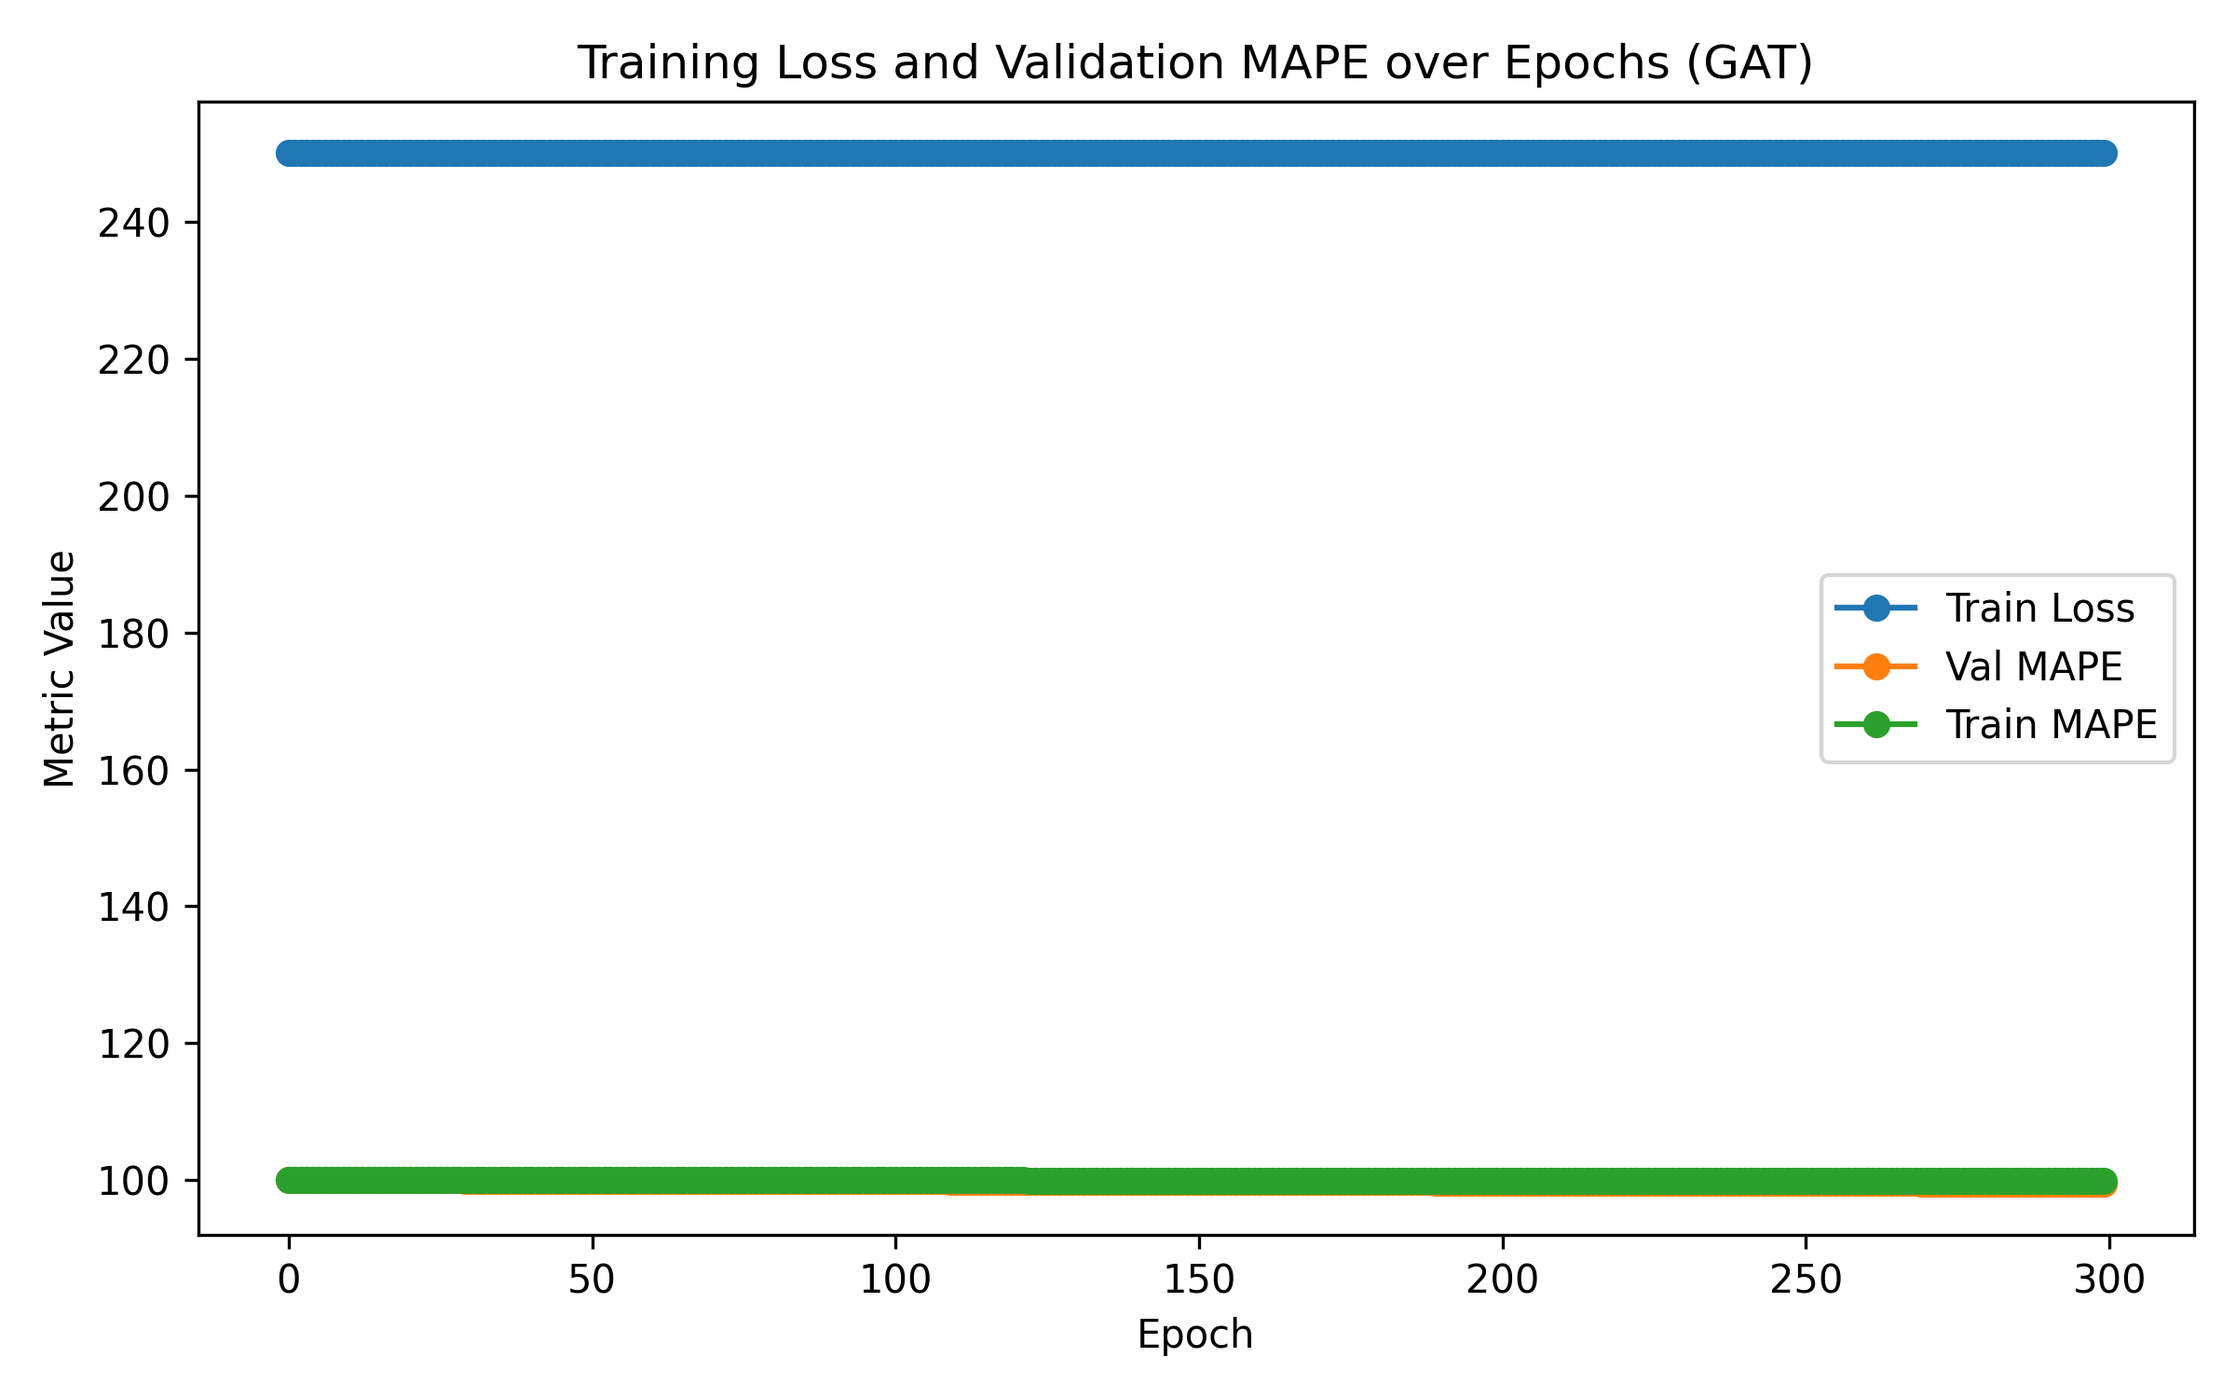
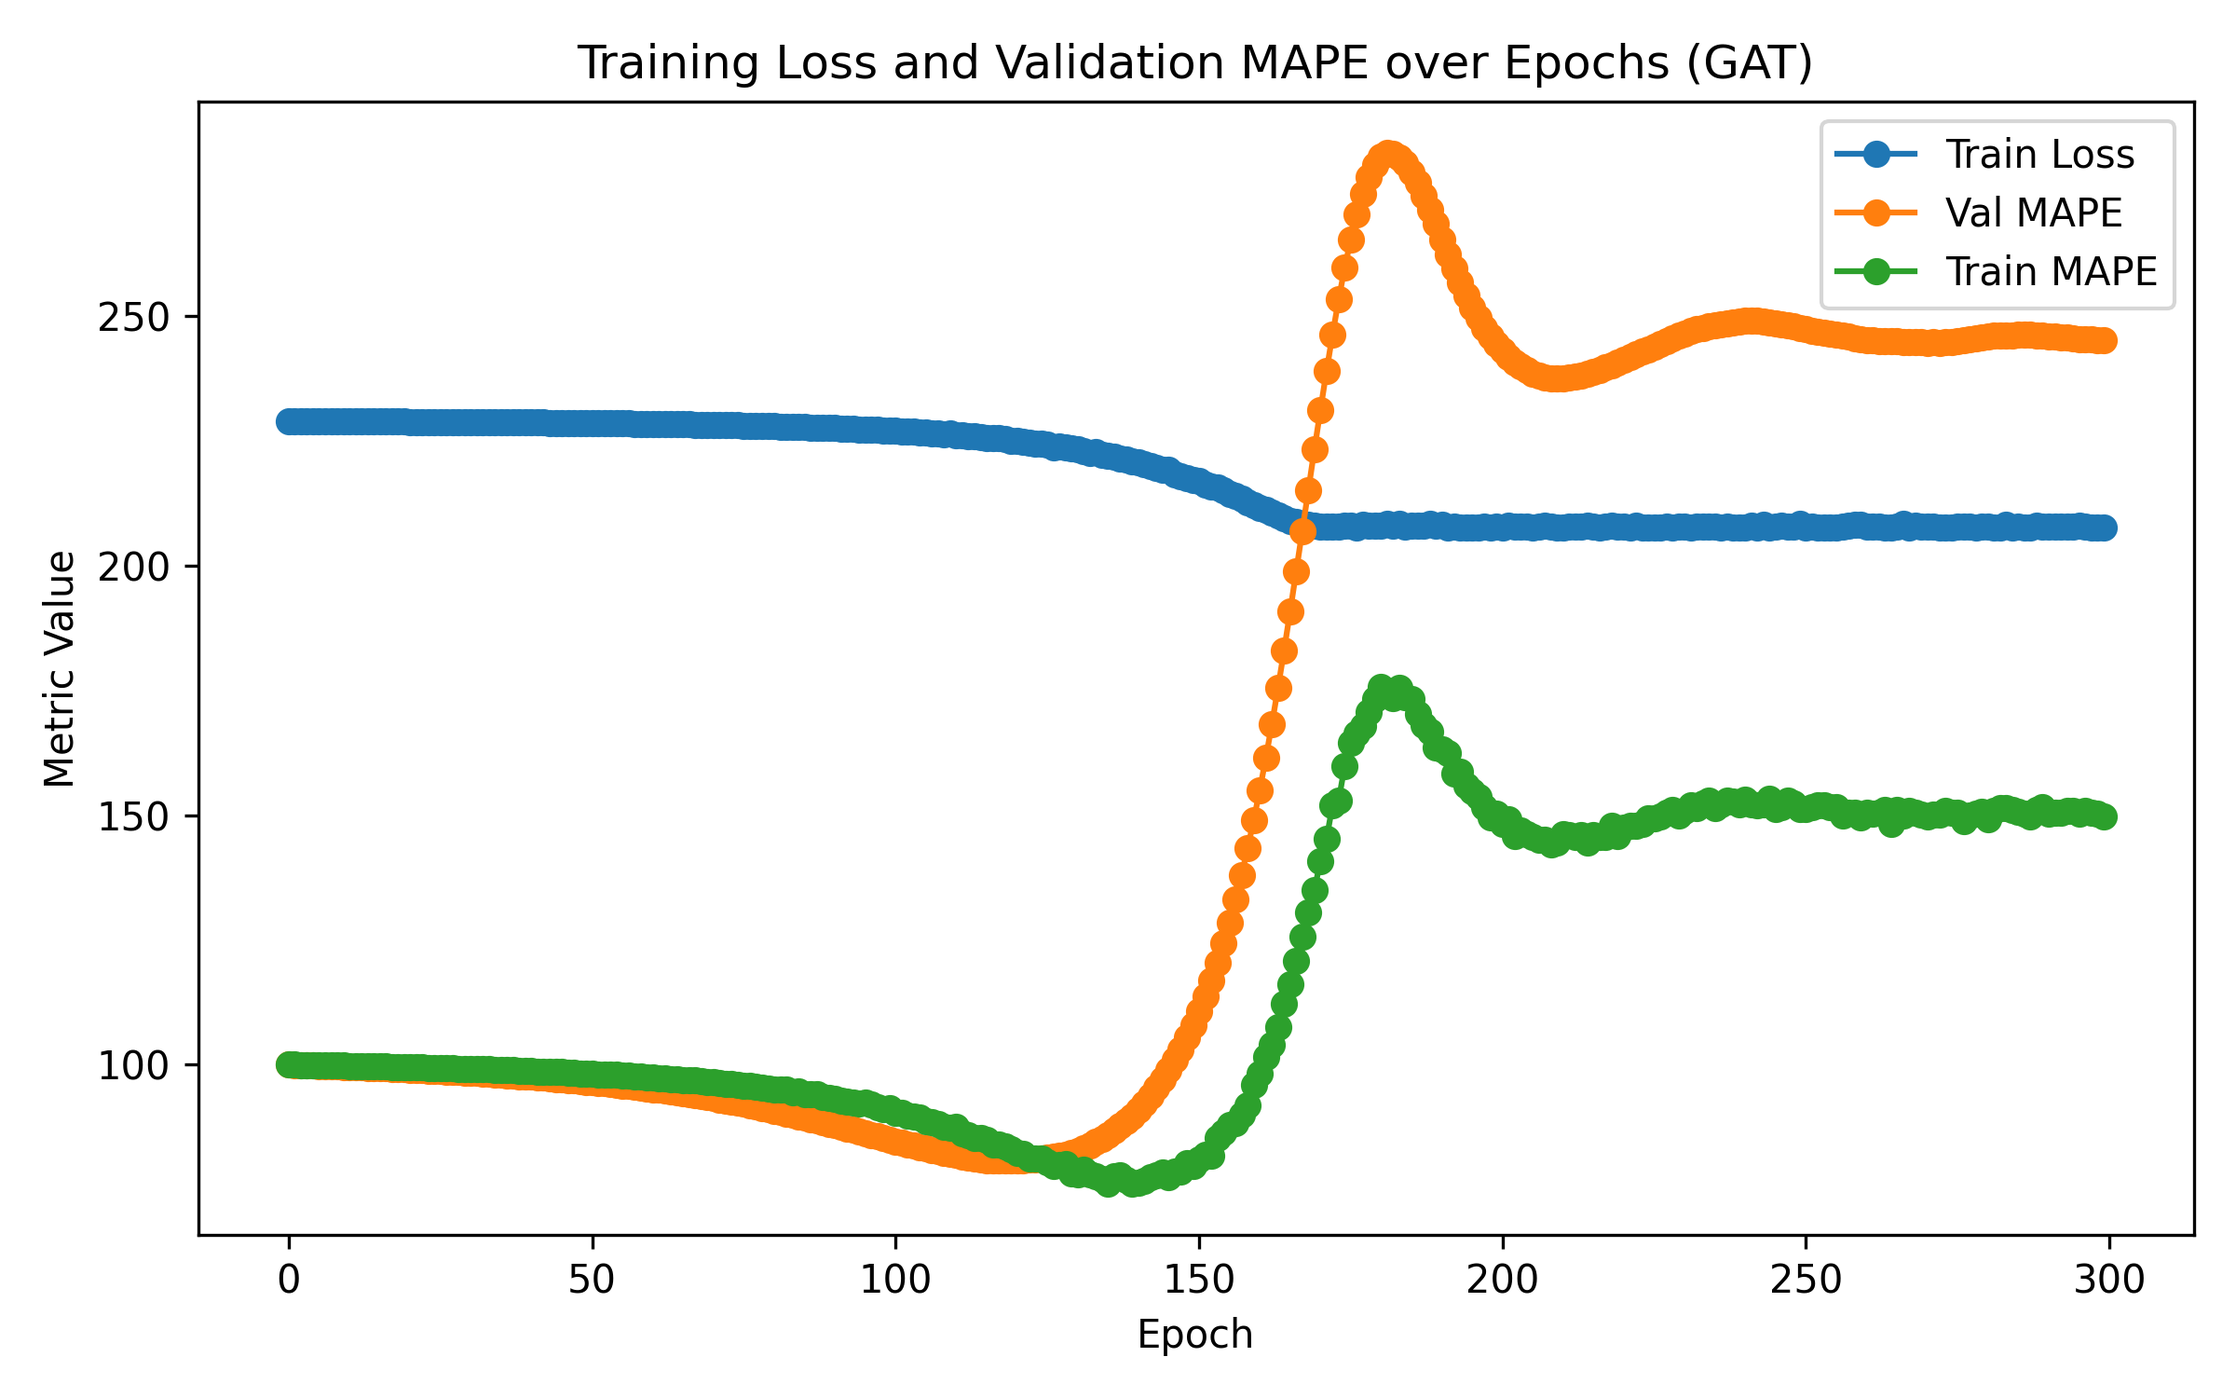
Finall getting good GNN training results with graphSage and larger weight decay

diff --git a/dissGNN/data_processing.py b/dissGNN/data_processing.py
@@ -29,6 +29,7 @@ def convert_shapefile_to_graph(shape_path, admin_level):
         for j, district_2 in shape.iterrows():
             if i != j and district_1.geometry.touches(district_2.geometry):
                 edges.append((district_1[ad_code], district_2[ad_code]))
+                edges.append((district_2[ad_code], district_1[ad_code]))
 
     return pd.DataFrame(edges, columns=["source", "target"])
 
@@ -55,15 +56,16 @@ def load_data(shape_path_coarse, shape_path_fine, features_path_coarse, features
     edges_fine["type"] = "fine"
     edges_mappings = convert_level_mappings_to_edges(mappings_path)
     edges_mappings["type"] = "mappings"
-    edges = pd.concat([edges_coarse, edges_fine, edges_mappings])
+    edges = pd.concat([edges_coarse, edges_mappings])
+    # edges = edges_mappings
     
     #Add weights for edges
-    weights = {"coarse" : 1, "fine" : 1, "mappings" : 1}
+    weights = {"coarse" : 1, "fine" : 1, "mappings" : 5}
+    # weights = {"coarse" : 1, "mappings" : 1}
     edges["weights_init"] = edges["type"].map(weights)
-    #Normalize weights TODO
 
     #Load node fgeatures for coarse admin and fine admin level and rename to generealize for concat
-    col_coarse_pcode = "ADM" + str(admin_level_coarse) + "_PCODE"
+    col_coarse_pcode = "ADM" + str(admin_level_coarse) + "_PCODE"   
     col_coarse_pt = "ADM" + str(admin_level_coarse) + "_PT"
     
     node_features_coarse = pd.read_csv(features_path_coarse)
@@ -85,27 +87,29 @@ def load_data(shape_path_coarse, shape_path_fine, features_path_coarse, features
         print("Missing districts in the features file: ", missing_districts)
 
     #Retrieve node features in tensor form
-    x_features, y_feature, edges, node_features = process_feature_data(node_features, edges)
+    x_features, y_feature, edges_final, node_features = process_feature_data(node_features, edges)
 
     x = torch.tensor(x_features, dtype=torch.float)
 
     #Create edge index
-    edge_index = torch.tensor(edges[["source_num", "target_num"]].values.T, dtype=torch.long)
+    edge_index = torch.tensor(edges_final[["source_num", "target_num"]].values.T, dtype=torch.long)
 
     #Edge weights
-    edge_weights = torch.tensor(edges["weights_init"].values, dtype=torch.float)
+    edge_weights = torch.tensor(edges_final["weights_init"].values, dtype=torch.float)
 
-    lap_edge_index, lap_edge_weight = get_laplacian(edge_index, edge_weights, normalization=None)
-    mask = lap_edge_index[0] != lap_edge_index[1]
-    lap_edge_index = lap_edge_index[:, mask]
-    lap_edge_weight = lap_edge_weight[mask]
-    lap_edge_weight = torch.abs(lap_edge_weight) #Remove negatives
-    edges["lap_weight"] = lap_edge_weight.numpy()
-    edges["weights_init"] = edges["weights_init"] * edges["lap_weight"] #Find new weights
-    edges["weights_init"] = edges["weights_init"] / edges["weights_init"].max() #Normalize weights
+    #Produce lap edges
+    # lap_edge_index, lap_edge_weight = get_laplacian(edge_index, edge_weights, normalization=None)
+    # mask = lap_edge_index[0] != lap_edge_index[1]
+    # lap_edge_index = lap_edge_index[:, mask]
+    # lap_edge_weight = lap_edge_weight[mask]
+    # lap_edge_weight = torch.abs(lap_edge_weight) #Remove negatives
+    # edges["lap_weight"] = lap_edge_weight.numpy()
+    # edges["weights_init"] = edges["weights_init"] * edges["lap_weight"] #Find new weights
+    # edges["weights_init"] = edges["weights_init"] / edges["weights_init"].max() #Normalize weights
+    # edge_weights = torch.tensor(edges["weights_init"].values, dtype=torch.float)
 
-    edge_index = torch.tensor(edges[["source_num", "target_num"]].values.T, dtype=torch.long)
-    edge_weights = torch.tensor(edges["weights_init"].values, dtype=torch.float)
+    edge_index = torch.tensor(edges_final[["source_num", "target_num"]].values.T, dtype=torch.long)
+    
     
     #Produce graph data
     data = Data(x=x, edge_index=edge_index)
@@ -174,8 +178,7 @@ def process_feature_data(node_features, edges):
     removed_pcodes.update(admin3_remove["ADM_PCODE"])
     
     node_features = node_features[~node_features["ADM_PCODE"].isin(removed_pcodes)]
-    edges[edges["source"].isin(node_features["ADM_PCODE"]) & edges["target"].isin(node_features["ADM_PCODE"])]
-    edges = edges.copy()
+    edges = edges[edges["source"].isin(node_features["ADM_PCODE"]) & edges["target"].isin(node_features["ADM_PCODE"])].copy()
     edges["source"] = edges["source"].astype(str)
     edges["target"] = edges["target"].astype(str)
 
@@ -198,7 +201,7 @@ def process_feature_data(node_features, edges):
     
     # --------- Visualisation covariates
     #Log population density
-    # y_feature = np.log1p(y_feature)
+    y_feature_final = np.log1p(1 + y_feature)
     original_index = x_unscaled.index  
     # Standardize x (features)
     scaler_vis = MinMaxScaler()
@@ -214,13 +217,12 @@ def process_feature_data(node_features, edges):
     #Visualise covariates
     # for col in x_features_cols_vis.columns:
     #     visualisations.plot_shape_file_covariates("data/shapefiles/admin_2/moz_admbnda_adm2_ine_20190607.shp", "data/shapefiles/admin_3/moz_admbnda_adm3_ine_20190607.shp", x_features_cols_vis, str(col))
-
     # ---------
 
     
-
     scaler = StandardScaler()
     x_features = scaler.fit_transform(x_unscaled)
+    # x_features = x_unscaled.copy()
 
     #Convert districts in edges to numbers
     area_to_index = {code: idx for idx, code in enumerate(node_features.index)}
@@ -230,6 +232,6 @@ def process_feature_data(node_features, edges):
     edges["target_num"] = edges["target"].map(area_to_index)
 
     
-    return x_features, y_feature, edges, node_features
+    return x_features, y_feature_final, edges, node_features
 
 

diff --git a/dissGNN/train_validate.py b/dissGNN/train_validate.py
@@ -3,35 +3,36 @@ from sklearn.preprocessing import StandardScaler
 import numpy as np
 
 def train(model, optimizer, data, loss_fn):
-    model.train()
     optimizer.zero_grad()
     output = model(data.x, data.edge_index, data.edge_weight)
-
     train_preds = output[data.train_mask].squeeze()
     train_labels = data.y[data.train_mask]
 
     # valid_mask = train_labels != -1  # Only keep admin level 2 nodes
 
     # loss = loss_fn(torch.expm1(train_preds[valid_mask]), torch.expm1(train_labels[valid_mask]))
-    # loss = loss_fn(torch.expm1(train_preds), torch.expm1(train_labels))
     loss = loss_fn(train_preds, train_labels)
-
+    # loss = loss_fn(train_preds, train_labels)
+    
     loss.backward()
+
+    # for name, param in model.named_parameters():
+    #     if param.grad is not None:
+    #         print(f"Gradient Norm [{name}]: {torch.norm(param.grad).item()}")
+
     # torch.nn.utils.clip_grad_norm_(model.parameters(), 0.4)
     optimizer.step()
     return loss.item()
 
 def validate(model, data, mask, e=1e-6):
-    model.eval()
-
-    output = model(data.x, data.edge_index, data.edge_weight).squeeze()
+    output = model(data.x, data.edge_index, data.edge_weight)
 
     # Compute MAPE
-    # actual = torch.expm1(data.y[mask])  # Convert log values back to original scale
-    # predicted = torch.expm1(output[mask])  # Convert log predictions back to original scale
+    actual = torch.expm1(data.y[mask])  # Convert log values back to original scale
+    predicted = torch.expm1(output[mask].squeeze()) # Convert log predictions back to original scale
 
-    actual = data.y[mask]  # Convert log values back to original scale
-    predicted = output[mask]  # Convert log predictions back to original scale
+    # actual = data.y[mask]  # Convert log values back to original scale
+    # predicted = output[mask].squeeze()  # Convert log predictions back to original scale
 
     # Compute MAE
     mae = torch.abs(predicted - actual).mean().item()
@@ -40,35 +41,39 @@ def validate(model, data, mask, e=1e-6):
     mse = torch.mean((predicted - actual) ** 2)
     rmse = torch.sqrt(mse).item()
 
-    # Compute MAPE (Avoid division by zero)
-    mape = (torch.abs((predicted - actual) / (actual + e))).mean().item() * 100  
+    valid_mask = actual > e
+    mape = (torch.abs((predicted[valid_mask] - actual[valid_mask]) / actual[valid_mask])).mean().item() * 100
 
     # Compute R² (Coefficient of Determination)
     ss_total = torch.sum((actual - actual.mean()) ** 2)
     ss_residual = torch.sum((actual - predicted) ** 2)
-    r2 = 1 - (ss_residual / (ss_total + e)).item()  # Add epsilon to avoid div by zero
+    r2 = 1 - (ss_residual / (ss_total)).item()  # Add epsilon to avoid div by zero
 
-    return mae, mape, rmse, r2  
+    return mae, mape, r2 
 
 def train_loop(num_epochs, model, data, optimizer, loss_fn):
     loss_arr = []
     val_acc_arr = []
     train_acc_arr = []
-    model.train()
+    
+    for param in model.parameters():
+        param.requires_grad = True  # Force enable gradients
+    
     for epoch in range(num_epochs):
+        model.train()
         loss = train(model, optimizer, data, loss_fn)
         loss_arr.append(loss)
-        mae, mape, rmse, r2 = validate(model, data, data.train_mask)
-        print("Train - Epoch Number: ", epoch, ", Loss: ", loss, ", MAE: ", mae, ", MAPE: ", mape, ", RMSE: ", rmse, ", R^2: ", r2, ".")
+        mae, mape, r2 = validate(model, data, data.train_mask)
+        print("Train - Epoch Number: ", epoch, ", Loss: ", loss, ", MAE: ", mae, ", MAPE: ", mape, ", R^2: ", r2, ".")
         train_acc_arr.append(mape)
 
+        model.eval()
+        with torch.no_grad():
+           
+            mae, mape, r2 = validate(model, data, data.test_mask)
+            print("Test - Epoch Number: ", epoch, ", Loss: ", loss, ", MAE: ", mae, ", MAPE: ", mape, ", R^2: ", r2, ".")
+            val_acc_arr.append(mape)
 
-    model.eval()
-    for epoch in range(num_epochs):
-        mae, mape, rmse, r2 = validate(model, data, data.test_mask)
-        print("Val - Epoch Number: ", epoch, ", Loss: ", loss, ", MAE: ", mae, ", MAPE: ", mape, ", RMSE: ", rmse, ", R^2: ", r2, ".")
-        val_acc_arr.append(mape)
-    
     return loss_arr, val_acc_arr, train_acc_arr
 
 
@@ -78,13 +83,15 @@ def produce_predictions(data, model, admin_level):
     with torch.no_grad():
         predictions = model(data.x, data.edge_index, data.edge_weight)
 
-    print("Raw Predictions (before expm1):", predictions[data.test_mask].detach().cpu().numpy())
-    print("Actual Values (before expm1):", data.y[data.test_mask].detach().cpu().numpy())
 
     predictions_final = torch.expm1(predictions[data.test_mask]).cpu().numpy().flatten()
     actual_final = torch.expm1(data.y[data.test_mask]).cpu().numpy().flatten()
 
-    predictions_final = predictions[data.test_mask].cpu().numpy().flatten()
-    actual_final = data.y[data.test_mask].cpu().numpy().flatten()
+    print("Raw Predictions (before expm1):", predictions_final )
+    print("Actual Values (before expm1):", actual_final)
+
+
+    # predictions_final = predictions[data.test_mask].cpu().numpy().flatten()
+    # actual_final = data.y[data.test_mask].cpu().numpy().flatten()
 
     return predictions_final, actual_final  

diff --git a/dissGNN/model.py b/dissGNN/model.py
@@ -4,6 +4,16 @@ import torch.nn.functional as F
 from torch_scatter import scatter_add
 import torch
 
+
+class LinRegModel(nn.Module):
+    def __init__(self, input_size, output_size):
+        super(LinRegModel, self).__init__()
+        self.linear = nn.Linear(input_size, output_size)
+
+    def forward(self, x, edge_index=None, edge_weight=None):
+        x = self.linear(x)
+        return x
+
 class GraphSage(nn.Module):
     def __init__(self, input_size, output_size, hidden_layer_size, message_passing_count, drop_prob):
         super(GraphSage, self).__init__()
@@ -38,26 +48,32 @@ class GAT(nn.Module):
 
         #Input to hidden layer mapping
         self.conv = nn.ModuleList()
-        self.conv.append(GATConv(input_size, hidden_layer_size, add_self_loops=True)) 
+        self.conv.append(GATConv(input_size, hidden_layer_size, add_self_loops=True, edge_dim=1)) 
         
         #Hidden layer to hidden layer mapping
         #Add number of hidden layers to match the number of neighbours
         for i in range(message_passing_count - 1):
-            self.conv.append(GATConv(hidden_layer_size, hidden_layer_size, add_self_loops=True))
+            self.conv.append(GATConv(hidden_layer_size, hidden_layer_size, add_self_loops=True, edge_dim=1))
 
         #Hidden layer to output mapping
-        self.final_layer = GATConv(hidden_layer_size, output_size)
+        self.final_layer = GATConv(hidden_layer_size, output_size, add_self_loops=True, edge_dim=1)
         self.drop_prob = drop_prob
 
     def forward(self, x, edge_index, edge_weight):
+        edge_weight = edge_weight.view(-1, 1)
+        # resid = x
         for layer in self.conv:
-            x = F.dropout(x, p=self.drop_prob, training = self.training)
-            x = layer(x, edge_index)          
+            x = layer(x, edge_index, edge_attr=edge_weight)          
             # x = F.leaky_relu(x, negative_slope = 0.1)
             x = F.relu(x)
+            x = F.dropout(x, p=self.drop_prob, training = self.training)
 
-        x = self.final_layer(x, edge_index)
-
+            # if x.shape[1] != resid.shape[1]:  
+            #     resid = torch.nn.Linear(resid.shape[1], x.shape[1]).to(x.device)(resid)
+            
+            # x = resid + x
+            # resid = x
+        x = self.final_layer(x, edge_index, edge_attr=edge_weight)
         return x
     
 class GCN(nn.Module):
@@ -74,16 +90,15 @@ class GCN(nn.Module):
             self.conv.append(GCNConv(hidden_layer_size, hidden_layer_size, add_self_loops=True))
 
         #Hidden layer to output mapping
-        self.final_layer = GCNConv(hidden_layer_size, output_size)
+        self.final_layer = GCNConv(hidden_layer_size, output_size, add_self_loops=True)
         self.drop_prob = drop_prob
 
     def forward(self, x, edge_index, edge_weight):
         for layer in self.conv:
-            x = F.dropout(x, p=self.drop_prob, training = self.training)
-            x = layer(x, edge_index)      
-            
+            x = layer(x, edge_index, edge_weight=edge_weight)      
             x = F.relu(x)
+            x = F.dropout(x, p=self.drop_prob, training = self.training)
 
-        x = self.final_layer(x, edge_index)
+        x = self.final_layer(x, edge_index, edge_weight=edge_weight)
 
         return x

diff --git a/dissGNN/main.py b/dissGNN/main.py
@@ -49,12 +49,17 @@ if __name__ == "__main__":
     # print(best_mape, "\n", best_params)
     # --------------
     
-    hidden_size, message_passing_count, drop_prob, learning_rate, weight_decay = 2, 8, 0.3, 5e-3, 5e-4
+    hidden_size, message_passing_count, drop_prob, learning_rate, weight_decay = 2, 4, 0.01, 1e-2, 1e-2
+    # hidden_size = 64
+    # message_passing_count = 3
+    # drop_prob = 0.1
+    # learning_rate = 1e-4
+    # weight_decay = 1e-4
+    model_inst = model.GraphSage(input_size, output_size, hidden_size, message_passing_count, drop_prob)
+    # model_inst = model.LinRegModel(input_size, output_size)
 
-    model_inst = model.GAT(input_size, output_size, hidden_size, message_passing_count, drop_prob)
-
-    # loss_fn = nn.MSELoss() 
     loss_fn = nn.SmoothL1Loss() 
+    # loss_fn = nn.CrossEntropyLoss() 
     optimizer = torch.optim.Adam(model_inst.parameters(), lr = learning_rate, weight_decay = weight_decay)
     loss, val_acc, train_acc = train_validate.train_loop(500, model_inst, data, optimizer, loss_fn)
 

diff --git a/dissGNN/visualisations.py b/dissGNN/visualisations.py
@@ -183,7 +183,7 @@ def plot_graph_on_shapefile(shapefile_path_coarse, shapefile_path_fine, data, ad
 
     # Save and display
     plt.savefig("output/map_visual/admin_2_3/graph_on_shapefile.png", dpi=500)
-    plt.show()
+    # plt.show()
 
 
 def plot_admin_dists(data):
